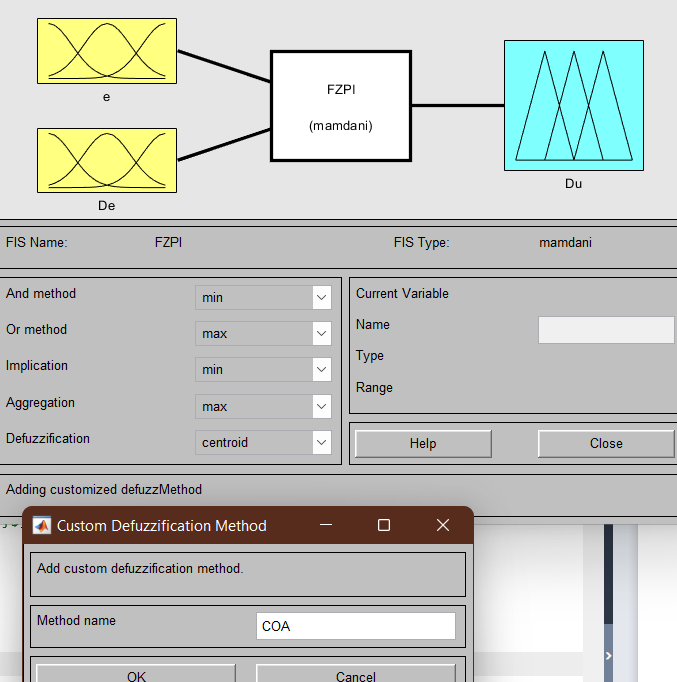
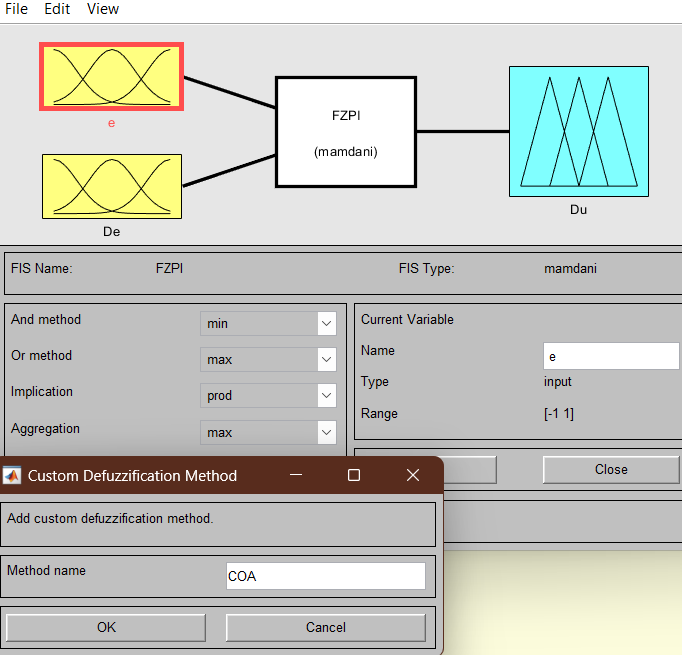
Minor corrections

diff --git a/FuzzyLogicController/create_fis.m b/FuzzyLogicController/create_fis.m
@@ -5,7 +5,8 @@ sets.andMethod = 'min';
 sets.defuzzMethod = 'COA';
 %sets.type = 'mamdani';
 sets.orMethod = 'max';
-
+% This adjustment to ImplicationMethod made later for using Larsen method
+sets.ImplicationMethod = "prod";
 
 A = 1;
 sets = addvar(sets,'input', 'e',[-A,A]);

diff --git a/TSK-Regression/OptimalParameterModelTskReg.m b/TSK-Regression/OptimalParameterModelTskReg.m
@@ -1,3 +1,5 @@
+% Computational Intelligence THMMY AUTH 2022
+% Charis Filis 9449
 clc;clear;
 close all;
 format compact
